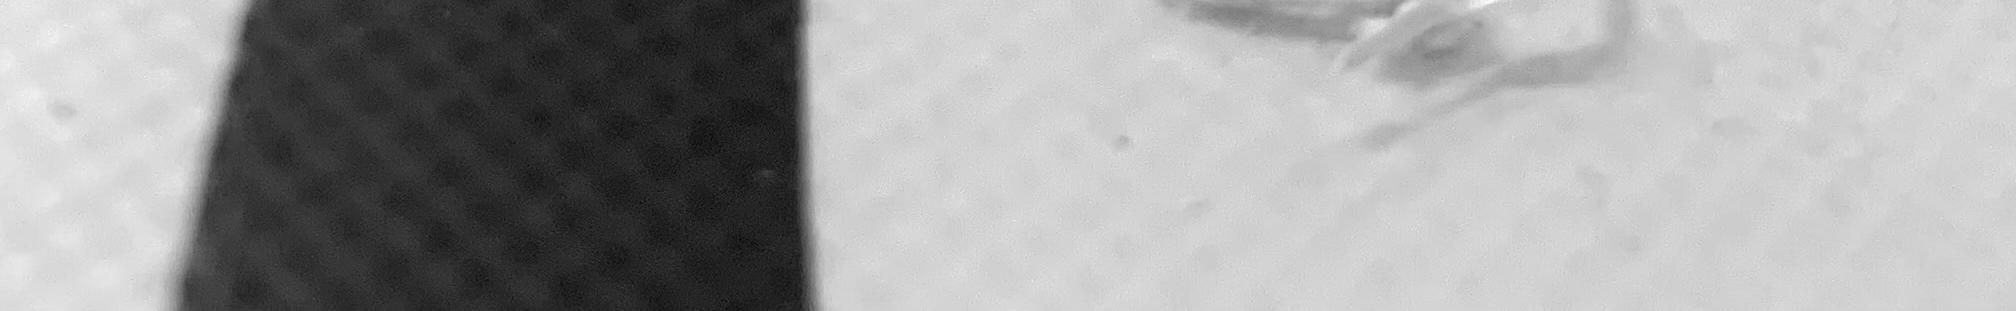
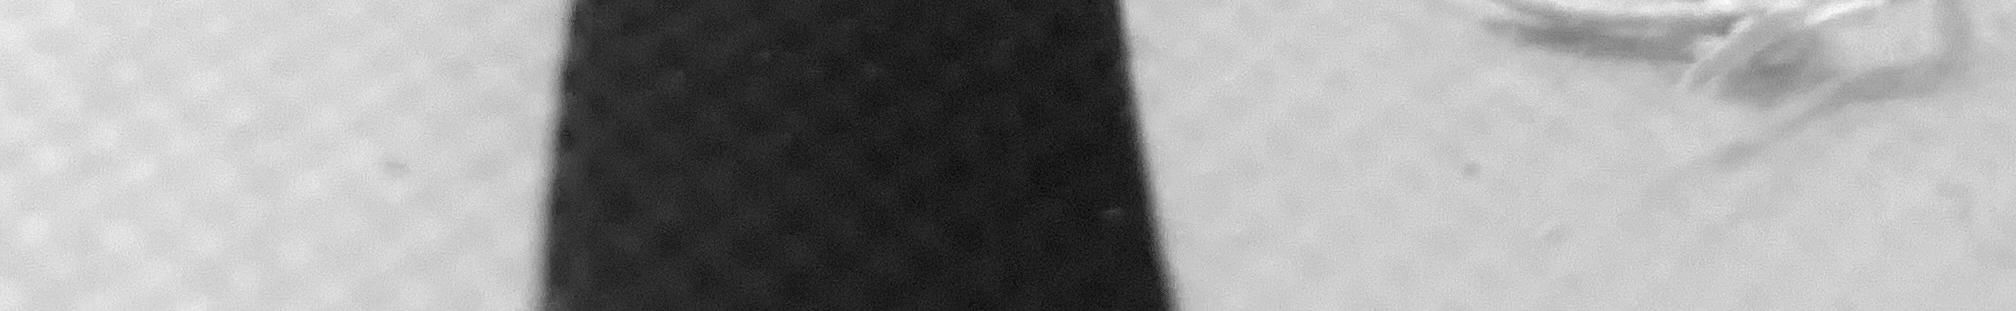
Leaphy V1
Includes first version of Leaphy code.
Not tested yet.

diff --git a/test.py b/test.py
@@ -1,52 +1,60 @@
 paths = ["C:/Users/willi/Documents/GitHub/Machine-Learning-PWS/test/image0.jpeg",
          "C:/Users/willi/Documents/GitHub/Machine-Learning-PWS/test/image1.jpeg",
          "C:/Users/willi/Documents/GitHub/Machine-Learning-PWS/test/image2.jpeg"]
+
+#imports
 import numpy as np
 import tensorflow as tf
+import timeit
 
-def find_black(img):
-    import timeit
+threshold = 40
+
+def find_line(img):
     start_time = timeit.timeit()
 
-    #img = tf.io.read_file(path)
-    #img = tf.image.decode_jpeg(img)
-    #
-    img = tf.image.rgb_to_grayscale(img)
-    tf.keras.utils.save_img("0.jpg", img)  
+    #process input image
+    img = tf.image.rgb_to_grayscale(img) 
     img = np.array(img)
-    print(img.shape[0])
     height, width = img.shape[0], img.shape[1]
-    print(width)
-    print(height)
 
+    #split image
     first_third = img.copy()[0:height, 0:(int(width/3))]
     second_third = img.copy()[0:height, (int(width/3)):(int(width/3*2))]
     third_third = img.copy()[0:height, (int(width/3*2)):width]
 
-    a = np.sum(first_third<=50)
-    b = np.sum(second_third<=50)
-    c = np.sum(third_third<=50)
+    #find black pixels (pixels with value below threshold)
+    a = np.sum(first_third<=threshold)
+    b = np.sum(second_third<=threshold)
+    c = np.sum(third_third<=threshold)
 
+    #get measurements
+    results = (a, b, c)
     end_time = timeit.timeit()
 
-    print(a)
-    print(b)
-    print(c)
-    print(f"Highest = {max(a, b, c)}")
     movements = {
-        0: "Right",
+        0: "Left",
         1: "Straight",
-        2: "Left"
+        2: "Right"
     }
-    print(f"Turn {movements[(a, b, c).index(max(a, b, c))]}")
-    print(end_time - start_time)
+    #give outputs
+    print(f"Results = {results}")
+    print(f"Highest = {max(results)}")
+    print(f"Turn {movements[(results).index(max(results))]}")
+    print(f"Time = {end_time - start_time}")
 
 def format_image(path, save=True):
+    #read images
     img = tf.io.read_file(path)
     img = tf.image.decode_jpeg(img)
     img = np.array(img)
+    
+    #get images properties
     height, width = img.shape[0], img.shape[1]
+
+    #crop image
     img = img[1957:height, (int(width/4)):(int(width/4*3))]
+
+    #save if applicable
     if save==True:
         tf.keras.utils.save_img("0.jpg", img)   
         return
@@ -54,11 +62,10 @@ def format_image(path, save=True):
         return img
 
 def main():
+    #run program for every image given
     for path in paths:
-        img = format_image(path, False)
-        find_black(img)
+        find_line(format_image(path, False))
         print()
-        break
 
 if __name__ == "__main__":
     main()

diff --git a/leaphy/main.py b/leaphy/main.py
@@ -1,0 +1,68 @@
+import image_operations, line_find, motor_operations, model_operations
+import timeit, math
+
+line_split = 5
+if (line_split % 2) == 0:
+    line_split += 1
+
+model_image_compression = 10
+line_interval = 0.1 #interval between line checks
+model_interval = 0.5 #interval between model runs
+
+def locate_line(img):
+    #crop image
+    line_img = image_operations.line_image(img)
+
+    #find line pixels
+    line_result = line_find.locate_line(line_img, line_split)
+    return line_result
+
+def run_model(img):
+    #crop and resize image
+    model_img = image_operations.model_image(img, model_image_compression)
+
+    #execute model
+    model_result = model_operations.execute_model(model_img)
+    return model_result
+
+def image():
+    image_operations.picture()
+    img = image_operations.load_image()
+    return img
+
+def main():
+    middle_line = math.floor(line_split/2)
+    last_line_time = timeit.timeit()
+    last_model_time = timeit.timeit()
+    print()
+    while True:
+        img = image()
+        if timeit.timeit() - last_line_time >= line_interval:
+            print("Finding line")
+            #check line
+            line_result = locate_line(img)
+
+            #react to line
+            if line_result == middle_line:
+                #line is in middle of frame
+                print("Line is centred")
+                motor_operations.leaphy.straight()
+            elif line_result < middle_line:
+                #line is left of centre
+                perc = 1/(line_result+1)
+                print(f"Line is left, {perc} angle")
+                motor_operations.leaphy.l_turn(perc)
+            elif line_result > middle_line:
+                #line is right of centre
+                perc = 1/abs(line_result-line_split)
+                print(f"Line is right, {perc} angle")
+                motor_operations.leaphy.r_turn(perc)
+            print()
+        if timeit.timeit() - last_model_time >= model_interval:
+            print("Running model")
+            #model_result = run_model()
+            #change motors
+            print()
+
+if __name__ == "__main__":
+    main()

diff --git a/execution_code/LineFollow.py b/execution_code/LineFollow.py
@@ -1,0 +1,61 @@
+from picamera2 import Picamera2
+import os
+import tensorflow as tf
+import numpy as np
+import time
+
+movements = {
+    0: "Left",
+    1: "Straight",
+    2: "Right"
+}
+threshold = 40
+wait_time = 0.1
+
+def follow_line():
+    camera = Picamera2()
+    cam_config = camera.create_still_configuration(main={"size": (1920, 1080)}, lores={"size": (64, 64)})
+    camera.configure(cam_config)
+    start_time = 0
+    camera.start_preview()
+    camera.start()
+    iteration = 0
+    while True:
+        time.sleep(start_time + wait_time - time.time())
+        start_time = time.time()
+        camera.capture_file("image.jpg")
+        
+        img = tf.io.read_file("image.jpg")
+        img = tf.image.decode_jpeg(img)
+        img = np.array(img)
+
+        height, width = img.shape[0], img.shape[1]
+        img = img[(int(height*0.9)):height, (int(width/4)):(int(width/4*3))]
+        results = find_line(img)
+        instruction = movements[(results.index(max(results)))]
+        print(f"Turn: {instruction}")
+        iteration += 1
+        if iteration == 100:
+            break
+
+def find_line(img):
+    img = tf.image.rgb_to_grayscale(img)
+    img = np.array(img)
+    height, width = img.shape[0], img.shape[1]
+
+    first_third = img.copy()[0:height, 0:(int(width/3))]
+    second_third = img.copy()[0:height, (int(width/3)):(int(width/3*2))]
+    third_third = img.copy()[0:height, (int(width/3*2)):width]
+
+    a = np.sum(first_third<=threshold)
+    b = np.sum(second_third<=threshold)
+    c = np.sum(third_third<=threshold)
+    results = (a, b, c)
+
+    return results
+
+def main():
+    follow_line()
+
+if __name__ == "__main__":
+    main()

diff --git a/leaphy/motor_operations.py b/leaphy/motor_operations.py
@@ -1,0 +1,38 @@
+from gpiozero import Motor
+
+class Leaphy():
+    def __init__(self):
+        #define motor ports
+        self.motorL = Motor(4, 14)
+        self.motorR = Motor(17, 27)
+
+        #define motor speeds
+        self.LMax = 1 #max speed for straight line for left motor
+        self.RMax = 1 #max speed for straight line for right motor
+        
+        self.LTurnL = self.LMax/2 #left turn left motor
+        self.LTurnR = self.RMax #left turn right motor
+        self.RTurnL = self.LMax #right turn left motor
+        self.RTurnR = self.RMax/2 #right turn right motor
+
+    def stop(self): 
+        #stop all motors
+        self.motorL.stop()
+        self.motorR.stop()
+    
+    def straight(self, speed=1): 
+        #go straight, at max speed with speed multiplier
+        self.motorL.forward(self.LMax*speed)
+        self.motorR.forward(self.RMax*speed)
+    
+    def l_turn(self, percentage=1, speed=1): 
+        #turn left, sharper for a sharp turn with speed multiplier
+        self.motorL.forward(self.LTurnL*percentage*speed)
+        self.motorR.forward(self.LTurnR*percentage*speed)
+    
+    def r_turn(self, percentage=1, speed=1): 
+        #turn right, sharper for a sharp turn with speed multiplier
+        self.motorL.forward(self.RTurnL*percentage*speed)
+        self.motorR.forward(self.RTurnR*percentage*speed)
+
+leaphy = Leaphy()

diff --git a/leaphy/image_operations.py b/leaphy/image_operations.py
@@ -1,0 +1,46 @@
+from picamera2 import Picamera2
+import numpy as np
+import tensorflow as tf
+
+def setup_camera():
+    camera = Picamera2()
+    cam_config = camera.create_still_configuration(main={"size": (1920, 1080)}, lores={"size": (64, 64)})
+    camera.configure(cam_config)
+    camera.start_preview()
+    camera.start()
+    return camera
+
+def picture():
+    #take picture and save
+    camera.capture_file("input_image.jpg")
+
+def load_image():
+    #load picture into memory and format
+    img = tf.io.read_file("input_image.jpg")
+    img = tf.image.decode_jpeg(img)
+    img = np.array(img)
+    return img
+
+def line_image(img):
+    #crop image for line searching
+    height, width = img.shape[0], img.shape[1]
+    img = img.copy()[(int(height*0.9)):height, (int(width/4)):(int(width/4*3))]
+    img = tf.image.rgb_to_grayscale(img)
+    img = np.array(img)
+    return img
+
+def model_image(img, compression):
+    #crop and resize image for model execution
+    height, width = img.shape[0], img.shape[1]
+    width /= compression
+    height /= compression
+    img = img.copy()
+    img = img.reshape(width/2, height, 3)
+    img = np.array(img)[np.newaxis,...]
+    return img
+
+def shutdown():
+    camera.stop_preview()
+
+#setup the camera
+camera = setup_camera()

diff --git a/model_code/DataLocationRandomizer.py b/model_code/DataLocationRandomizer.py
@@ -5,7 +5,7 @@ import os
 import BackgroundRandomizer
 
 #define settings
-Image_amount = 100
+Image_amount = 50
 Image_width = 1920
 Image_height = 1080
 
@@ -59,7 +59,7 @@ def GenerateImages(destination, base, randomized=False):
 def main():
     #define the path of where the images are being saved
     Image_save_location = "C:/Users/willi/Documents/GitHub/Machine-Learning-PWS/image_destination"
-    if os.path.isdir(Image_save_location):
+    if os.path.isdir(Image_save_location) == False:
         os.mkdir(Image_save_location)
         print("Base directory made")
     #define the images that are being pasted on the background
@@ -70,7 +70,7 @@ def main():
 
     #generate the images
     for i in range(len(base_locations)):
-        GenerateImages(f"{Image_save_location}/{i}", base_locations[i], randomized=True)
+        GenerateImages(f"{Image_save_location}/{i}", base_locations[i], randomized=False)
 
     dest = "C:/Users/willi/Documents/GitHub/Machine-Learning-PWS/image_destination"
     print("\nImages per folder:")

diff --git a/leaphy/model_operations.py b/leaphy/model_operations.py
@@ -1,0 +1,19 @@
+import tensorflow as tf
+
+model_path = "model.tflite"
+
+def load_model():
+    interpreter = tf.lite.Interpreter(model_path=model_path)
+    interpreter.allocate_tensors()
+    return interpreter
+
+def execute_model(image):
+    input_details = interpreter.get_input_details()
+    interpreter.set_tensor(input_details[0]['index'], image)
+    interpreter.invoke()
+    output_details = interpreter.get_output_details()
+    predictions = interpreter.get_tensor(output_details[0]['index'])[0]
+    prediction = predictions.index(max(predictions))
+    return prediction
+
+interpreter = load_model()

diff --git a/leaphy/line_find.py b/leaphy/line_find.py
@@ -1,0 +1,18 @@
+import numpy as np
+
+threshold = 50
+
+def locate_line(img, parts):
+    height, width = img.shape[0], img.shape[1]
+    results = []
+    for i in range(parts):
+        #select part of image
+        step1 = img.copy()[0:height, (int(width/parts*i)):(int(width/3*(i+1)))]
+
+        #count pixels below threshold
+        step2 = np.sum(step1 <= threshold)
+        results.append(step2)
+    
+    #find part with most line pixels and return part
+    result = results.index(max(results))
+    return result

diff --git a/model_code/Visualizer.py b/model_code/Visualizer.py
@@ -1,0 +1,11 @@
+import matplotlib.pyplot as plt
+EPOCHS = 2
+epochs_range = range(EPOCHS)
+acc = [0.4833333194255829, 0.5383333563804626]
+loss = [1442.93896484375, 122.79529571533203]
+
+plt.plot(acc)
+plt.plot(loss)
+plt.xlabel("EPOCHS")
+plt.legend(["acc", "loss"], loc="upper left")
+plt.show()
